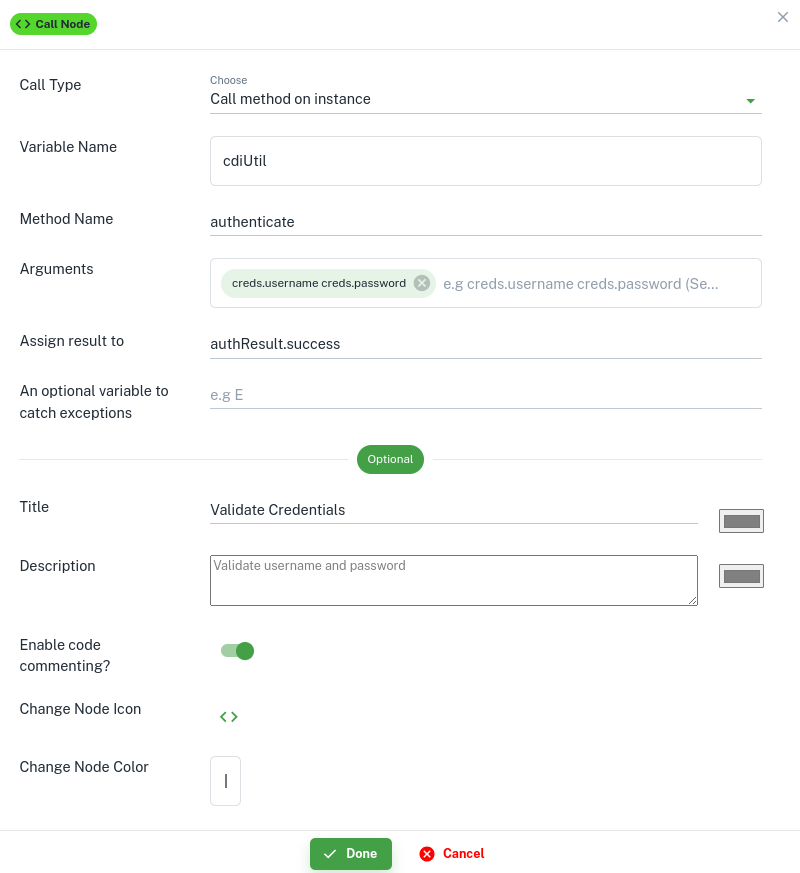
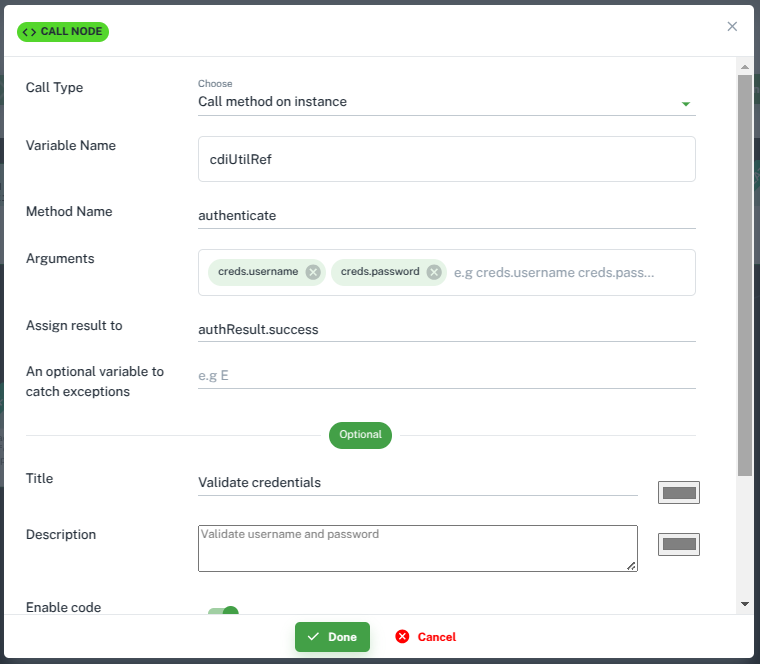
fix(docs): minor edits

diff --git a/docs/janssen-server/developer/agama/quick-start-using-agama-lab.md b/docs/janssen-server/developer/agama/quick-start-using-agama-lab.md
@@ -132,8 +132,19 @@ from this project listing page.
     configuration screen. Add configuration values as shown below.  
     This configuration will fetch a reference of the 
     `AuthenticationService` class and 
-    store the reference in a variable called `authService`. This reference will 
+    store the reference in a variable called `authServiceRef`. This reference will 
     be used to validate the user credentials in the subsequent steps.
+
+    `class name`: `io,jans.server.service.AuthenticationService`
+
+    `method name`: `class`
+
+    `assign result to`: `authServiceRef`
+
+    `title`: `Get authentication service reference`
+
+    `description`: `Get authentication service reference from the IDP`
+
    
     ![](../../../assets/agamalab-flow-passwd-edit-call.png)
 
@@ -148,13 +159,25 @@ from this project listing page.
     Click on the newly created `Call` block and by clicking :material-pencil: open the configuration page.
     Input values as shown below in the configuration screen.
 
+    `class name`: `io.jans.service.cdi.util.CdiUtil`
+
+    `method name`: `bean`
+
+    `arguments`: `authServiceRef`
+
+    `assign result to`: `cdiUtilRef`
+
+    `title`: `Get authentication service reference`
+    
+    `description`: `Get authentication service reference from the IDP`
+
     ![](../../../assets/agamalab-flow-passwd-edit-cdiutil.png)
 
 4. Create Assignment block
 
     Next, we need to create an empty variable that the flow will use in the future to store authentication results. 
 
-    Create an `Assignment` block and configure it as shown below.
+    Create an `Assignment` block after the `CdiUtil` call block and configure it as shown below.
 
     ![](../../../assets/agamalab-flow-passwd-edit-assignment.png)
 
@@ -236,8 +259,14 @@ from this project listing page.
 
     ![](../../../assets/agama-lab-create-assignment-uid.png)
 
-    Click on the newly created `Call` block. Click :material-pencil:.
-    Input values as shown below in the configuration screen
+    Click on the newly created `Assignment` block. Click :material-pencil:.
+    Input values as shown below in the configuration screen.
+
+    `Resultant variable`: `authResult.uid`
+    
+    `Value/literal`: `creds.username`
+
+    
 
     ![](../../../assets/agamalab-flow-passwd-edit-assignment-uid.png)
 
@@ -312,7 +341,7 @@ from this project listing page.
     // Get CdiUtil reference from the IDP
     cdiUtilRef = Call io.jans.service.cdi.util.CdiUtil#bean authService
     // Empty result object 
-    authResult = "{}"
+    authResult = {}
     // Retry 3 times to get correct username and password 
     Repeat 3 times max
         // Loads the login page for username and password input 
@@ -321,7 +350,7 @@ from this project listing page.
         authResult.success = Call cdiUtil#authenticate creds.username creds.password
         // Keep the username if the user needs to retry authentication 
         authResult.uid = "creds.username"
-        When authResult.uid is true
+        When authResult.success is true
               // Return username in case of successful authentication 
               Finish authResult.uid
     // Max number of failed authentication attempts reached. Return False to end the flow
@@ -331,7 +360,7 @@ from this project listing page.
 ### Design user interface
 
 In the RRF configuration step, we mentioned `login.ftlh` to render the login page elements.
-We need to add `login.ftlh` to the Agama project so that the flow can use during the flow execution.
+We need to add `login.ftlh` to the Agama project so that the flow can use it during the execution.
 Use the steps below to create the page.
 
 1. Create a template file
